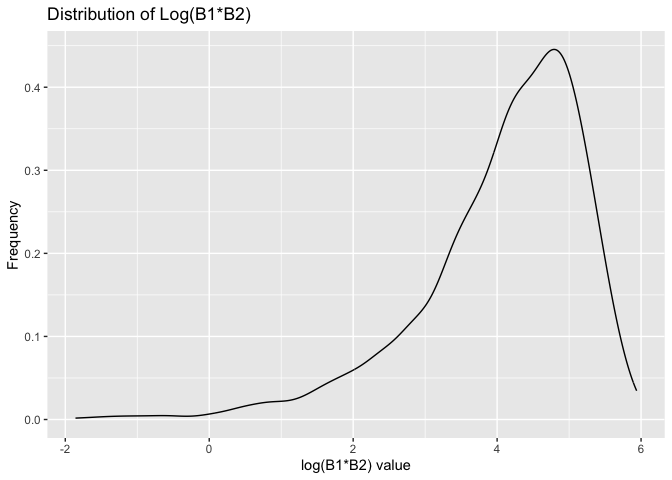
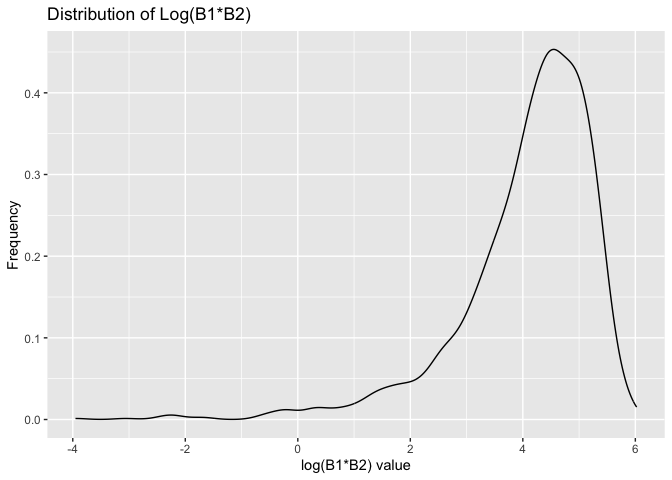
Added proportion NA to Beta log

diff --git a/p8105_jl5934_hw6.md b/p8105_jl5934_hw6.md
@@ -267,9 +267,22 @@ log_betas %>%
        y = "Frequency")
 ```
 
-    ## Warning: Removed 3359 rows containing non-finite values (`stat_density()`).
+    ## Warning: Removed 3377 rows containing non-finite values (`stat_density()`).
 
 ![](p8105_jl5934_hw6_files/figure-gfm/unnamed-chunk-1-1.png)<!-- -->
+
+``` r
+na_proportion <- colMeans(is.na(log_betas)) %>%
+  knitr::kable(col.names = c("variable","proportion_NaN"))
+
+na_proportion
+```
+
+| variable          | proportion_NaN |
+|:------------------|---------------:|
+| strap_number      |         0.0000 |
+| beta_multiple     |         0.0000 |
+| log_beta_multiple |         0.6754 |
 
 - Our distribution of log(B1\*B2) values are primarily located at 4.2,
   with a leftward tail extended below zero. This demonstrates that there
@@ -286,15 +299,25 @@ upper_r2 <- quantile(bootstrap_results$r.squared, 0.975)
 # Assuming bootstrapped_log_beta is a vector of your 5000 bootstrap estimates for log(beta0 * beta1), how to deal w/ NaNs? from negative values
 lower_log_beta <- quantile(log_betas$log_beta_multiple, 0.025, na.rm = TRUE)
 upper_log_beta <- quantile(log_betas$log_beta_multiple, 0.975, na.rm = TRUE)
+
+Confidence_intervals <- data.frame(
+  Variable = c("Lower_CI", "Upper_CI"),
+  R_Squared = c(lower_r2, upper_r2),
+  Log_Betas = c(lower_log_beta, upper_log_beta)
+) 
+
+Confidence_intervals %>%
+  knitr::kable()
 ```
 
-- For R2 the lower quantile at 2.5% is 0.8637678, whereas the upper
-  quantile at 97.5% is 0.9558145. Thus the 95% CI is between those two
-  values.
+|       | Variable | R_Squared | Log_Betas |
+|:------|:---------|----------:|----------:|
+| 2.5%  | Lower_CI | 0.8886578 | 0.8950442 |
+| 97.5% | Upper_CI | 0.9410218 | 5.5029832 |
 
-- For log(B1\*B2) the lower quantile at 2.5% is 0.9941103, whereas the
-  upper quantile at 97.5% is 4.940135. Thus the 95% CI is between those
-  two values.
+- Above in the table, we can see the lower and upper Confidence
+  intervals for the R_Squared and Log of Betas in our bootstrapping
+  model.
 
 # Problem 3
 
